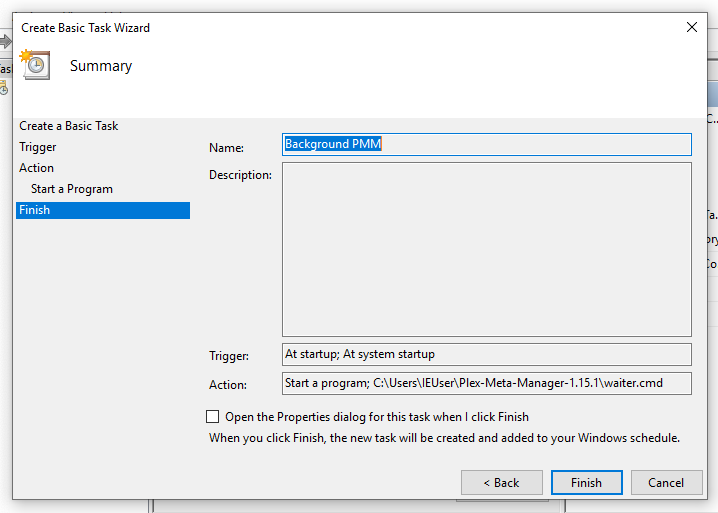
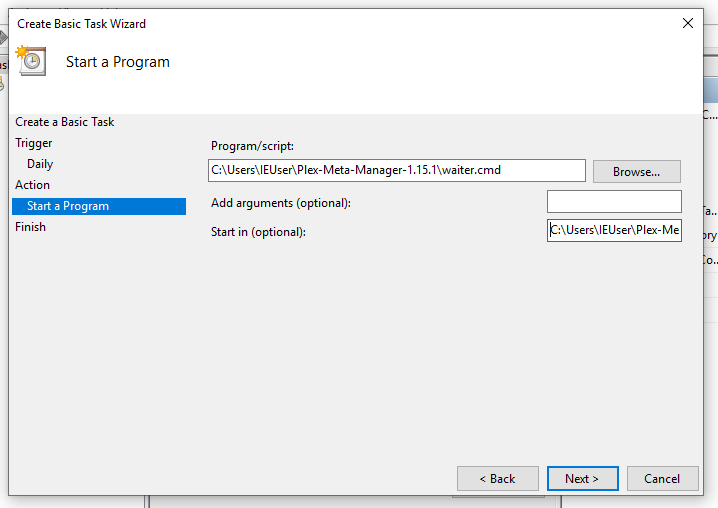
adjust some images

diff --git a/docs/home/guides/scheduling.md b/docs/home/guides/scheduling.md
@@ -98,15 +98,11 @@ This is the recommended approach as it allows the user additional control over h
 
 8. Copy the directory everything up to but not including `waiter.cmd` from the "Program/Script" field, and paste it into the "Start in" field.  This is `C:\User\IEUser\Plex-Meta-Manager-1.15.1` in the example below, then select "next".  NOTE: Your path may vary from the illustration or example.
 
-   ![task-scheduler](task-scheduler/04-basic-task-06.png)
+   ![task-scheduler](task-scheduler/06-basic-task-06.png)
 
-9. Check "Open the properties dialog" if desired (not required) then select "Finish".
+9. Click "Finish".
 
-   ![task-scheduler](task-scheduler/04-basic-task-07.png)
-
-10. Click "Task Schedule Library" on the left. The PMM Run task should be visible.
-
-    ![task-scheduler](task-scheduler/04-basic-task-09.png)
+10. Click "Task Schedule Library" on the left. The "Background PMM" task should be visible.
 
 Plex Meta Manager will now launch at system startup, but will wait until the user-specified scheduled time before executing, and will then wait in the background for the next scheduled run.
 